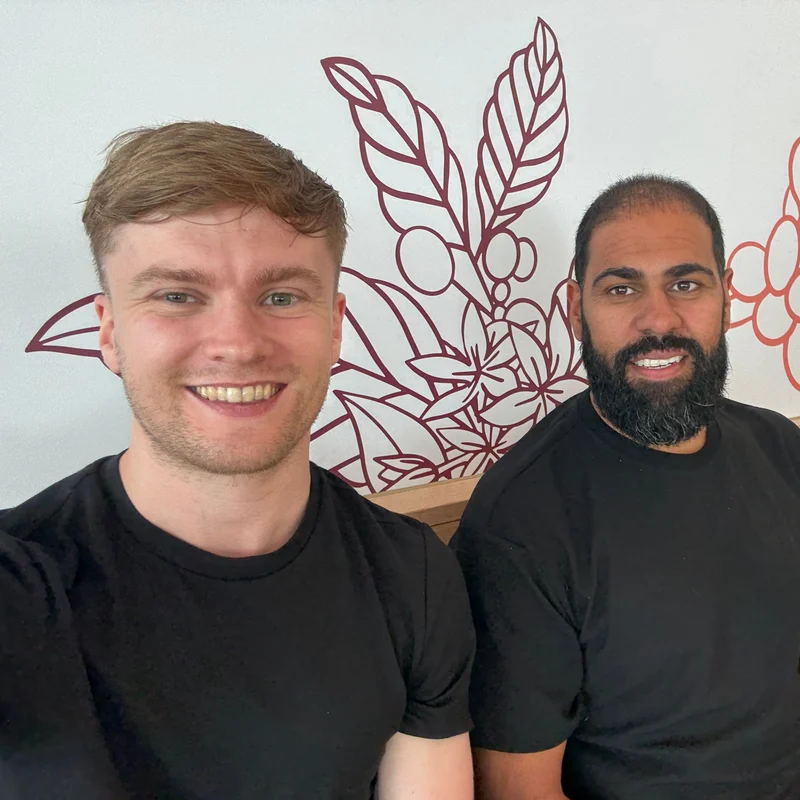
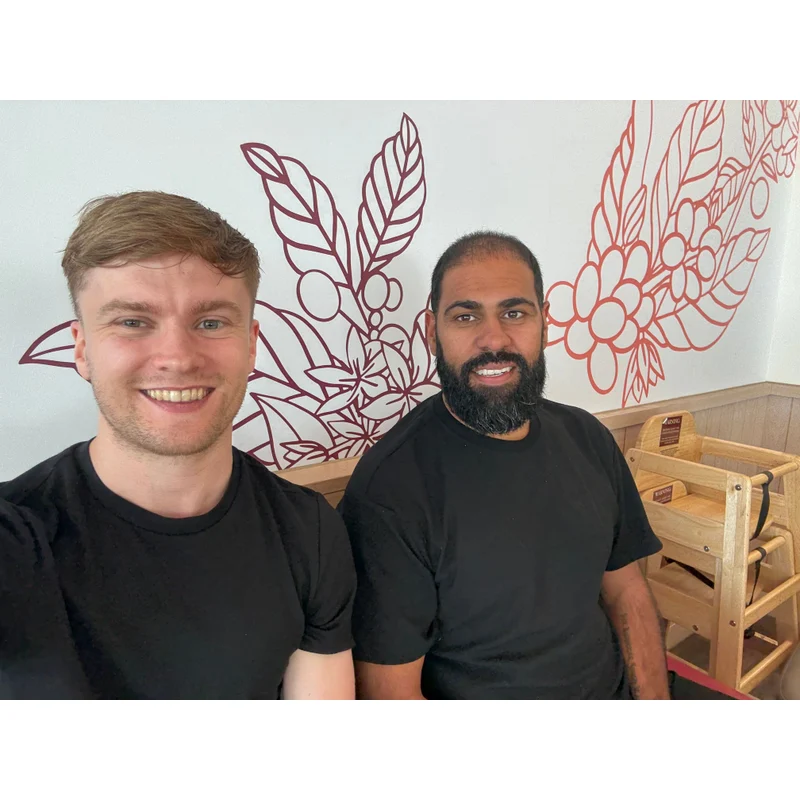
Jaz contain (both faces visible), tighter desktop section spacing
Jaz — regenerated with fit: contain so the whole rotated source is
placed on a white 800x800 canvas. Guarantees both George's and Jaz's
full faces are visible on every viewport regardless of the container
crop; previous cover-crops kept clipping the left edge on mobile.

Desktop section padding trimmed 52 → 44px, sec-head margin 32 → 24px.
Cuts a chunk of vertical space between and inside every section on
desktop so the No Time to Watch section (and everything else) reads
more compact on laptop viewports.

diff --git a/app/globals.css b/app/globals.css
@@ -121,13 +121,13 @@ nav.site-nav.scrolled { box-shadow: 0 1px 14px rgba(0,0,0,.09); border-bottom: 1
 
 /* SECTION */
 section { padding: 40px 0; border-top: 1px solid var(--border); scroll-margin-top: 80px; }
-@media (min-width: 768px) { section { padding: 52px 0; } }
+@media (min-width: 768px) { section { padding: 44px 0; } }
 .grey { background: var(--offwhite); }
 .dark { background: var(--navy); color: #fff; border-top: none; }
 .dark h2, .dark h3 { color: #fff; }
 .dark .sub { color: rgba(255,255,255,.72); }
 .sec-head { margin-bottom: 18px; }
-@media (min-width: 768px) { .sec-head { margin-bottom: 32px; } }
+@media (min-width: 768px) { .sec-head { margin-bottom: 24px; } }
 
 /* VIDEO */
 .vwrap { border: 1px solid var(--border); background: #000; max-width: 900px; margin: 0 auto; }
